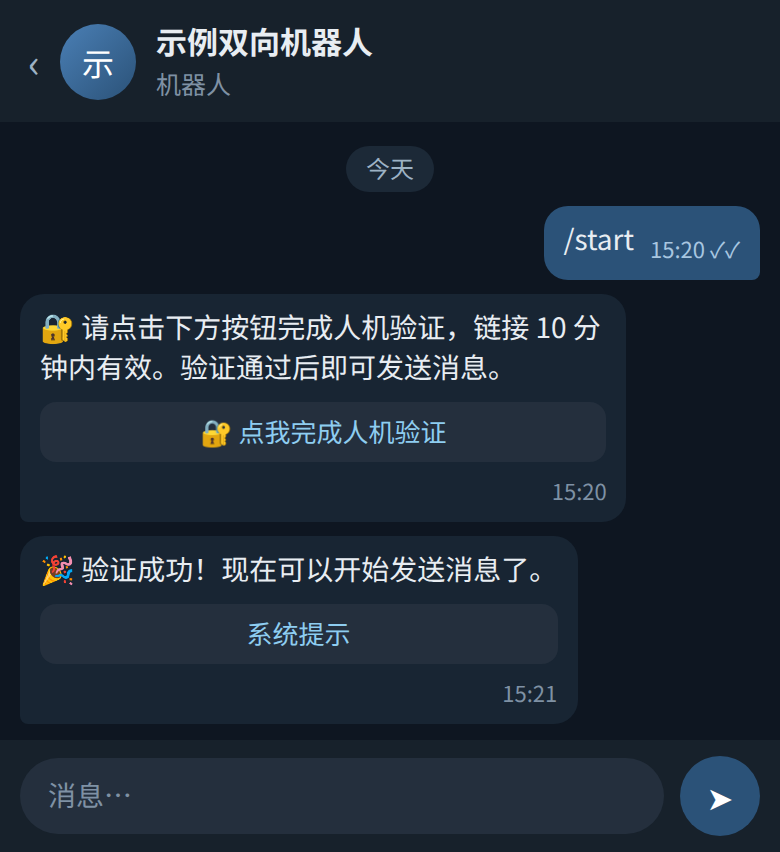
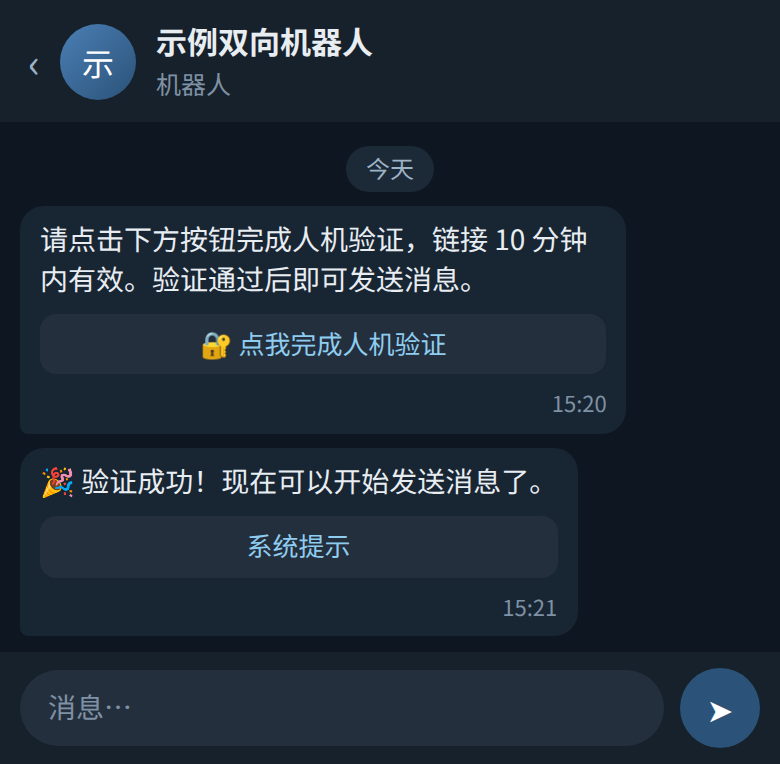
v1.6.2：访客 /start 应答时即删、消息与按钮不再重复带 emoji；内置引导、README 与验证/通行证/管理台效果图同步（.github 镜像同步）

diff --git a/TGbot-D1创新版本3.0.5-增强版.js b/TGbot-D1创新版本3.0.5-增强版.js
@@ -107,11 +107,11 @@ const DEFAULTS = {
     '⚠ 您的消息触发了关键词过滤器 ' +
     '({count}/{threshold} 次)，消息已丢弃。',
   verify_card_text:
-    '🔐 请点击下方按钮完成人机验证，' +
+    '请点击下方按钮完成人机验证，' +
     '链接 {minutes} 分钟内有效。' +
     '验证通过后即可发送消息。',
   pass_deliver_text:
-    '🎫 管理员发放了一张验证通行证\n\n' +
+    '管理员发放了一张验证通行证\n\n' +
     '如果人机验证一直过不去，点击下方按钮即可直接通过验证。\n' +
     '通行证 {minutes} 分钟内有效，且只能使用一次。',
   quiz_lock_text:
@@ -7431,9 +7431,10 @@ async function voidUserPass(env, userId) {
   }
 }
 
-// 撤回记账中的访客 /start 并清记账行：验证成功收尾
-// （cleanupAfterVerified）与已验证访客首条真实消息的
-// 回执清理点共用。已验证访客再发 /start 时不会再有
+// 撤回记账中的访客 /start 并清记账行：/start 在入口
+// 处已即时删除，本函数是即时删除失败时的兜底，由验
+// 证成功收尾（cleanupAfterVerified）与已验证访客首
+// 条真实消息的回执清理点共用。已验证访客再发 /start 时不会再有
 // 验证成功事件来消费这本账，故由回执清理连带撤回，
 // 口径与验证成功时一致（只记最新一条）。
 async function clearTrackedStartMessage(env, userId) {
@@ -8999,6 +9000,22 @@ async function handlePrivateMessage(
       return;
     }
 
+    // 访客的 /start 在机器人应答之前先删掉：这条命令
+    // 消息不进转发配对，留在私聊里只会在日后整段清空
+    // 时成为删不掉的尾巴。删除走 quiet 口径，失败不拦
+    // 回复——失败时下方 startmsg 记账仍是兜底（验证成
+    // 功/首条真实消息的清理点会再删一次）。管理员与协
+    // 管员不删（其 /start 是主菜单入口）；/help 不在此
+    // 列，与既有记账口径一致。被封禁访客在函数入口的
+    // 早检处已连消息一并删除、到不了这里。
+    if (!isAdmin && commandText === '/start') {
+      await quietDeleteMessage(
+        env,
+        chatId,
+        message.message_id
+      );
+    }
+
     const user =
       await dbUserGetOrCreate(
         userId,
@@ -9090,9 +9107,10 @@ async function handlePrivateMessage(
 
       await sendVerifySuccessReceipt(env, chatId);
       // 与未验证分支同口径记下这条 /start（只记最新一条，
-      // /help 不记）：已验证访客不会再有「验证成功收尾」
-      // 来撤它，改由首条真实消息的回执清理点连带撤回
-      // （见 clearTrackedStartMessage）。
+      // /help 不记）：入口处已先删，这本账只作即时删除
+      // 失败时的兜底——已验证访客不会再有「验证成功收
+      // 尾」来撤它，改由首条真实消息的回执清理点连带
+      // 再删（见 clearTrackedStartMessage）。
       if (commandText === '/start' && message.message_id) {
         await dbConfigPut(
           `startmsg:${userId}`,
@@ -9102,8 +9120,9 @@ async function handlePrivateMessage(
       }
 
     } else {
-      // 记下这条 /start 的编号（只记最新一条）：验证成功时
-      // 一并撤回（见 cleanupAfterVerified）。
+      // 记下这条 /start 的编号（只记最新一条）：入口处已
+      // 先删，这本账只作即时删除失败时的兜底——验证成
+      // 功时由 cleanupAfterVerified 再删一次。
       // /help 同样会走 handleStart，但清理对象是 /start 本身，不记。
       if (commandText === '/start' && message.message_id) {
         await dbConfigPut(
@@ -10382,7 +10401,7 @@ async function handleAdminCommand(
         chat_id: env.ADMIN_GROUP_ID,
         message_thread_id: Number(topicId),
         text:
-          `🧹 确认清空与访客 ${userId} 的全部聊天记录？\n` +
+          `确认清空与访客 ${userId} 的全部聊天记录？\n` +
           '将删除：话题内的全部转发副本、访客私聊中的全部聊天副本，以及全部消息配对记录。\n' +
           '⚠ 私聊里 48 小时前的消息删不掉，执行后会报告条数。\n' +
           '话题本身和访客档案保留，对方之后仍可继续聊天。',
@@ -15601,7 +15620,7 @@ function buildGuidePage(pageCtx = {}) {
       <li><b class=\"k\">自己先试一遍：</b>私聊发送 <code>/testverify</code> 会拿到一个测试验证链接，点开能看到访客眼中的验证页长什么样；测试模式只是看看样子，不会真的放行或记录任何人。</li>
       <li><b class=\"k\">🎫 一次性通行证（救济通道）：</b>个别访客怎么也过不了验证（比如网络连不上验证服务）时，在访客列表里他那一行点「🎫 通行证」，机器人会私聊发给他一条带通行证链接的消息（默认 30 分钟内有效，有效期可在管理台「基础配置」里改），他点开链接、在确认页点一下即通过验证。通行证链接必须本人点开才有效，转发给别人没用，用过即作废；不依赖 Turnstile 配置，没配密钥也能发。</li>
       <li><b class=\"k\">🤝 信任：</b>熟人可以免掉验证：在访客列表他那一行点「🤝 信任」，或在他话题的资料卡上点「设为信任」，他立即通过验证（会收到欢迎消息，就是验证成功时发的那句问候）。信任只有一个开关，开启后一并免验证、免转发限流、免类型过滤、免超时清理（删档版与温和版都免）；屏蔽关键词与关键词自动封禁也一并豁免——他发的话、改的话带着关键词也照常送达、不计数。点「取消信任」收回。注意：对他「重置验证」或在话题里发 /reverify 会连信任一起撤销；被封禁的人要先解封才能设信任；资料卡上的信任按钮只有主管理员能操作。</li>
-      <li><b class=\"k\">验证消息会自己清理：</b>验证提示、通行证和「🎉 验证成功」（即欢迎消息）这类流程消息，用完后会被机器人自动删掉，不在访客对话里堆积：反复索要验证只留最新一条提示，通过验证时提示和访客自己发的那条 /start 会一并清掉，成功提示在他发出第一条消息、刚进入处理时就清掉（那条消息就算被关键词、类型过滤或限流拦下也照清）；过期没用的通行证会在他下次来发消息时清扫。</li>
+      <li><b class=\"k\">验证消息会自己清理：</b>验证提示、通行证和「🎉 验证成功」（即欢迎消息）这类流程消息，用完后会被机器人自动删掉，不在访客对话里堆积：反复索要验证只留最新一条提示；访客自己发的那条 /start，机器人在应答时就顺手删掉，私聊里不留这条命令消息；通过验证时提示会一并清掉，成功提示在他发出第一条消息、刚进入处理时就清掉（那条消息就算被关键词、类型过滤或限流拦下也照清）；过期没用的通行证会在他下次来发消息时清扫。</li>
     </ul>
   </section>
 
@@ -15613,7 +15632,7 @@ function buildGuidePage(pageCtx = {}) {
       <li><b class=\"k\">改错字会同步：</b>直接编辑你已发送的消息，对方那边会同步改好，被改好的那条消息下方会出现一颗「✍🏼已编辑」标记按钮（点它不会有任何反应，只是标记）。Telegram 不给机器人提供官方的「已编辑」标记，这颗按钮就是补这个用的；它和普通聊天里的编辑一样安静——不会有新消息、不会弹窗提醒，没留意的话可能根本发现不了对方改过。访客编辑他的消息时，你这边也一样。这是写死的固定行为：两个方向的编辑都会自动附上标记，管理台里没有它的开关。只有原地改不动的极少数情况例外（比如转发配对已过期被清理、原地修改被拒绝）：这时机器人会以「回复旧副本」的形式补发一条只含新内容的消息，下方照样附「✍🏼已编辑」标记，原来的副本保留不动——这种时候才会多出一条新消息，顺着回复关系就能对上是哪条被改了。</li>
       <li><b class=\"k\">自动消息带「系统提示」牌：</b>机器人自动发出的提示消息（欢迎消息、验证提示、自动回复、熔断期间的回复、拉黑 / 解封通知这类），只要本身没有功能按钮，下方都会带一颗「系统提示」按钮，用来和真人发送的消息区分，点它不会有任何动作；验证按钮、通行证、资料卡、主菜单这些本来就带按钮的消息不再另加；主菜单有个例外：按钮被全部关掉后，菜单没了按钮，就会带上这颗牌子。消息被原地改写时牌子也在，靠改写出现的报告也会补上——比如熔断恢复后，「请稍后再试」会原地改成「✅ 服务已恢复」，下方的「系统提示」照样保留；/clear 的确认卡点下后会原地改写成进度与结果报告，下方同样带这颗牌子。</li>
       <li><b class=\"k\">删消息两边一起删：</b>在话题里回复选中要删的那条消息，再发 <code>/delete</code>，两边同时删除。注意：访客私聊那边的原消息只能删 48 小时以内的，超了删不掉时会在话题里留一行说明。</li>
-      <li><b class=\"k\">整段对话清空：</b>在话题里发 <code>/clear</code> 并点确认，会把这个话题里的转发副本和访客私聊里的聊天副本成批删掉，欢迎消息、验证卡这类机器人单独记账的流程消息、还有熔断期间发出的回复卡也一并删掉，话题本身保留、之后还能接着聊；48 小时前的私聊消息删不掉，清完会在话题里报告删了多少、多少删不掉。这个操作只有主管理员能做，协管员发命令或点确认都会被拦下。</li>
+      <li><b class=\"k\">整段对话清空：</b>在话题里发 <code>/clear</code> 并点确认，会把这个话题里的转发副本和访客私聊里的聊天副本成批删掉，欢迎消息、验证卡这类机器人单独记账的流程消息、还有熔断期间发出的回复卡也一并删掉（访客发的那条 /start 在机器人应答时就已删掉，不会留到清空时才发现删不掉），话题本身保留、之后还能接着聊；48 小时前的私聊消息删不掉，清完会在话题里报告删了多少、多少删不掉。这个操作只有主管理员能做，协管员发命令或点确认都会被拦下。</li>
       <li><b class=\"k\">表情回应会同步：</b>你给某条消息贴的 emoji，对方那边也会贴上（会显示成机器人贴的，因为 Telegram 只允许机器人以自己的名义贴）。</li>
       <li><b class=\"k\">拉黑有提醒：</b>访客把机器人拉黑时，他的话题里会出现 🚫 提醒；他取消拉黑时有 ✅ 提醒，不用你去猜他还在不在；发出 ✅ 提醒的同时，之前那条 🚫 提醒会被一并删掉，话题里只留最新状态。</li>
       <li><b class=\"k\">转发失败有提醒：</b>投票、位置、游戏这类本体转不过来的消息，会在话题里落一张占位卡、访客那边也会收到一句提示（见文末「不支持清单」）；其他复制失败会在话题里留一行 ⚠ 提醒你留意；要是在群里手动关闭了某个话题，访客再发消息时机器人会先把话题重新打开再投递，不会另建新话题；访客短时间内发得太频繁时，超出部分会被限流丢弃，并在话题里提醒一次。</li>

diff --git a/.github/README.md b/.github/README.md
@@ -42,10 +42,10 @@
 
 4. **验证消息自动清理**（v1.2.0 新增）
    - 验证流程里的机器人消息（验证提示、通行证消息与「🎉 验证成功」回执；已验证访客再发 /start 时回的也是这句欢迎消息，见本项末条）都会记下消息 ID 并在使用完毕后自动删除，不再在访客对话里越攒越多：反复索要验证提示只保留最新一条；通过验证时立即清掉验证提示与未使用的通行证；成功提示在访客发出第一条消息、进入处理时就删去（第一条消息被屏蔽关键词、类型过滤或限流拦下也照删，成功转发后再兜底清理一次）；过期未用的通行证在该访客下次来发消息时清扫。删除都是尽力而为（消息已被对方删掉等情况静默跳过），D1 里只存消息编号、不存正文，编号随访客记录一同删除。
-   - 清理范围扩围（v1.3.0）：通过验证时，验证提示与访客自己最近发送的那条 /start 也一并删掉，验证前后的流程消息在访客对话里基本不留痕（更早发送的 /start 不在追溯范围内）。注：早期版本在 /start 时先发的那条欢迎语已取消（v1.6.2），现在打开私聊只会收到验证卡本身；欢迎消息改在验证成功时发送，就是那句成功问候（见下条）。
+   - 清理范围扩围（v1.3.0，v1.6.2 再扩）：访客自己发的那条 /start，机器人在应答时就立即删掉——不等通过验证、每条都删，私聊里不留这条命令消息，日后整段清空时也不会再有删不掉的尾巴（此前只在通过验证时删最近一条、更早的不追溯）；通过验证时再清掉验证提示，验证前后的流程消息在访客对话里基本不留痕。注：早期版本在 /start 时先发的那条欢迎语已取消（v1.6.2），现在打开私聊只会收到验证卡本身；欢迎消息改在验证成功时发送，就是那句成功问候（见下条）。
    - 欢迎消息就是验证成功问候（v1.6.2）：「🎉 验证成功」这条回执的文案改由管理台「基础配置 → 欢迎消息」决定（默认就是「🎉 验证成功！现在可以开始发送消息了。」），原先单独的「验证成功提示」设置项取消；管理台里这个字段显示的始终是实际会发出的问候：从没改过时显示默认句，早期版本留下的旧欢迎语存量会被当作未设置——既不会显示成现行文案，也不会再发给访客。
    - 回执登记加固（v1.3.0）：六条发放成功提示的路径（静态问答、顺序点击、Turnstile、通行证、资料卡与列表设信任）统一收口到同一段发放代码；提示编号登记失败会自动重试，多次失败则把刚发出的这条提示删掉，宁可不留回执，也不留下一条谁也删不掉的记录。
-   - 覆盖已验证访客（v1.4.1）：已通过验证的访客再次发送 /start 时，机器人会回复一条提示，这条 /start 也会被记下，在他下一条消息送达、提示被清掉时一并删掉，不再只清提示、留下命令本身。v1.6.2 起这条提示并入欢迎消息：回的就是验证成功时那句问候本身（同一句、同一个「欢迎消息」字段可改），不再另发一条单独的已验证提示。
+   - 覆盖已验证访客（v1.4.1）：已通过验证的访客再次发送 /start 时，这条 /start 同样在机器人应答时立即删掉；机器人回复的那条提示会被记下，在他下一条消息送达时清掉，不再只清提示、留下命令本身。v1.6.2 起这条提示并入欢迎消息：回的就是验证成功时那句问候本身（同一句、同一个「欢迎消息」字段可改），不再另发一条单独的已验证提示。
 
 ### 消息转发与同步
 

diff --git a/README-增强版.md b/README-增强版.md
@@ -42,10 +42,10 @@
 
 4. **验证消息自动清理**（v1.2.0 新增）
    - 验证流程里的机器人消息（验证提示、通行证消息与「🎉 验证成功」回执；已验证访客再发 /start 时回的也是这句欢迎消息，见本项末条）都会记下消息 ID 并在使用完毕后自动删除，不再在访客对话里越攒越多：反复索要验证提示只保留最新一条；通过验证时立即清掉验证提示与未使用的通行证；成功提示在访客发出第一条消息、进入处理时就删去（第一条消息被屏蔽关键词、类型过滤或限流拦下也照删，成功转发后再兜底清理一次）；过期未用的通行证在该访客下次来发消息时清扫。删除都是尽力而为（消息已被对方删掉等情况静默跳过），D1 里只存消息编号、不存正文，编号随访客记录一同删除。
-   - 清理范围扩围（v1.3.0）：通过验证时，验证提示与访客自己最近发送的那条 /start 也一并删掉，验证前后的流程消息在访客对话里基本不留痕（更早发送的 /start 不在追溯范围内）。注：早期版本在 /start 时先发的那条欢迎语已取消（v1.6.2），现在打开私聊只会收到验证卡本身；欢迎消息改在验证成功时发送，就是那句成功问候（见下条）。
+   - 清理范围扩围（v1.3.0，v1.6.2 再扩）：访客自己发的那条 /start，机器人在应答时就立即删掉——不等通过验证、每条都删，私聊里不留这条命令消息，日后整段清空时也不会再有删不掉的尾巴（此前只在通过验证时删最近一条、更早的不追溯）；通过验证时再清掉验证提示，验证前后的流程消息在访客对话里基本不留痕。注：早期版本在 /start 时先发的那条欢迎语已取消（v1.6.2），现在打开私聊只会收到验证卡本身；欢迎消息改在验证成功时发送，就是那句成功问候（见下条）。
    - 欢迎消息就是验证成功问候（v1.6.2）：「🎉 验证成功」这条回执的文案改由管理台「基础配置 → 欢迎消息」决定（默认就是「🎉 验证成功！现在可以开始发送消息了。」），原先单独的「验证成功提示」设置项取消；管理台里这个字段显示的始终是实际会发出的问候：从没改过时显示默认句，早期版本留下的旧欢迎语存量会被当作未设置——既不会显示成现行文案，也不会再发给访客。
    - 回执登记加固（v1.3.0）：六条发放成功提示的路径（静态问答、顺序点击、Turnstile、通行证、资料卡与列表设信任）统一收口到同一段发放代码；提示编号登记失败会自动重试，多次失败则把刚发出的这条提示删掉，宁可不留回执，也不留下一条谁也删不掉的记录。
-   - 覆盖已验证访客（v1.4.1）：已通过验证的访客再次发送 /start 时，机器人会回复一条提示，这条 /start 也会被记下，在他下一条消息送达、提示被清掉时一并删掉，不再只清提示、留下命令本身。v1.6.2 起这条提示并入欢迎消息：回的就是验证成功时那句问候本身（同一句、同一个「欢迎消息」字段可改），不再另发一条单独的已验证提示。
+   - 覆盖已验证访客（v1.4.1）：已通过验证的访客再次发送 /start 时，这条 /start 同样在机器人应答时立即删掉；机器人回复的那条提示会被记下，在他下一条消息送达时清掉，不再只清提示、留下命令本身。v1.6.2 起这条提示并入欢迎消息：回的就是验证成功时那句问候本身（同一句、同一个「欢迎消息」字段可改），不再另发一条单独的已验证提示。
 
 ### 消息转发与同步
 
